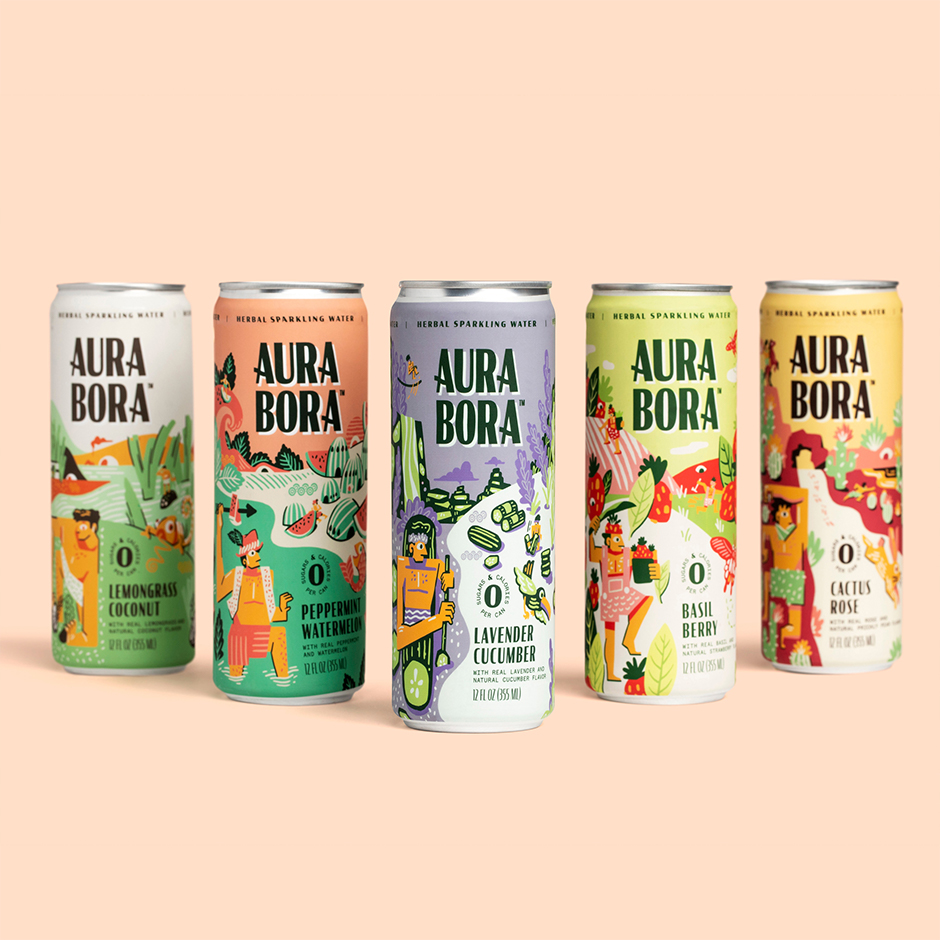
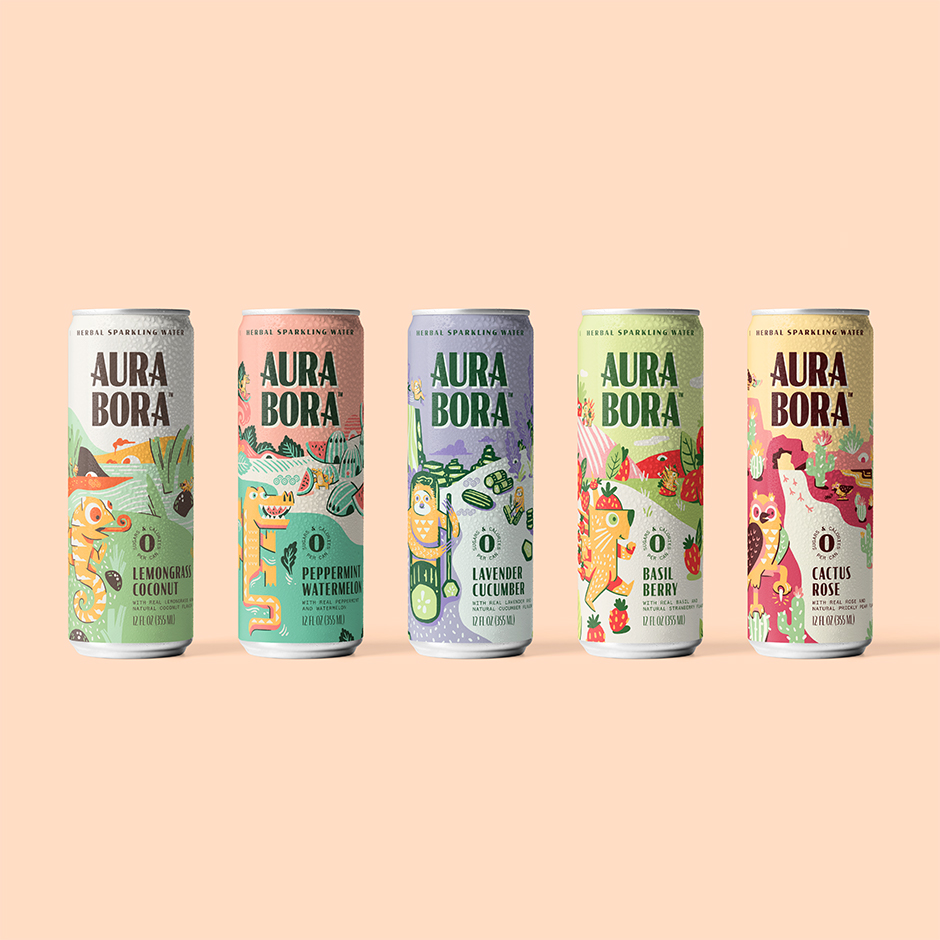
Update VP product image and Peppermint bg-color

diff --git a/src/styles/variables/_variables_colors.scss b/src/styles/variables/_variables_colors.scss
@@ -29,7 +29,7 @@ $varietyPack-info: #f7d4d1;
 //product bg colors
 
 $basilBerry: #f5f8c9;
-$peppermintWatermelon: #f8ae87;
+$peppermintWatermelon: #dd938a;
 $lavenderCucumber: #a6a3b6;
 $cactusRose: #fae2a2;
 $lemongrassCoconut: #dbf1cb;
